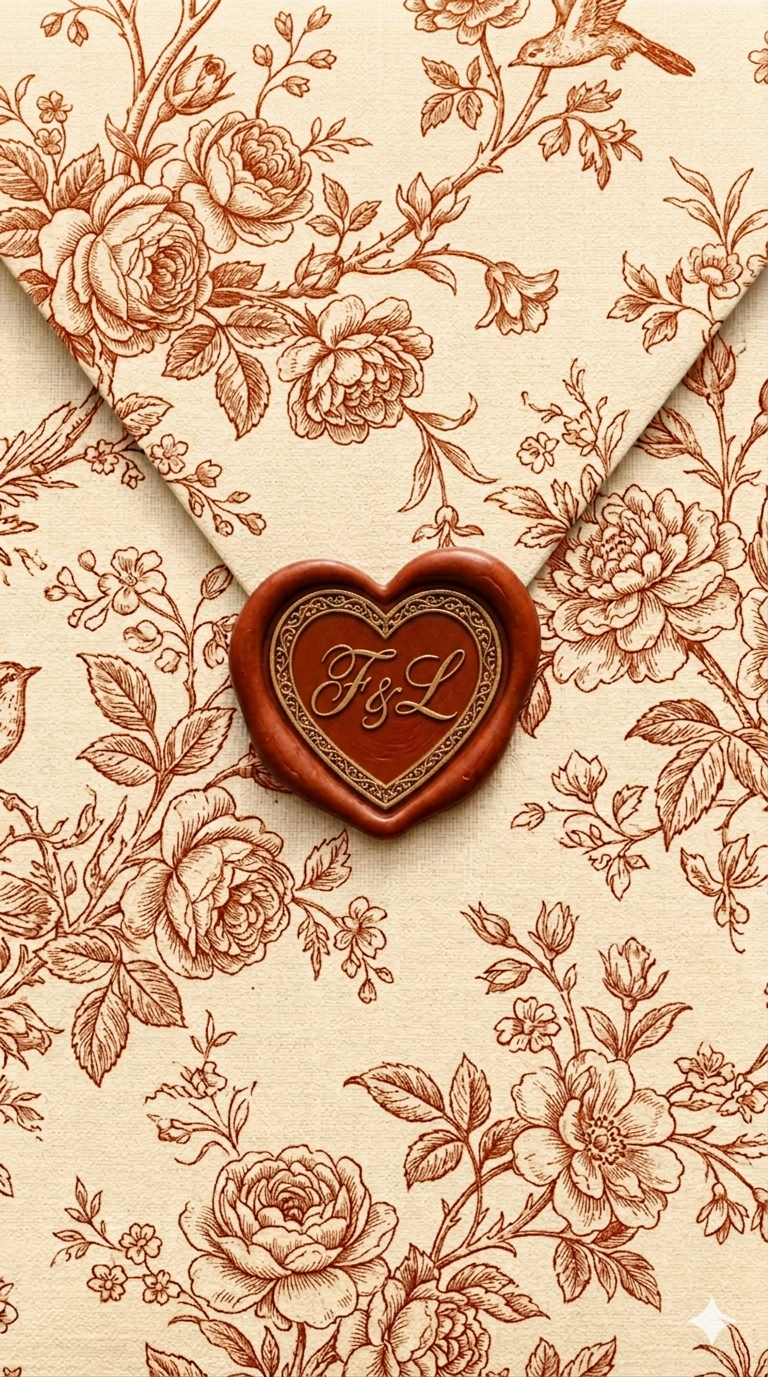
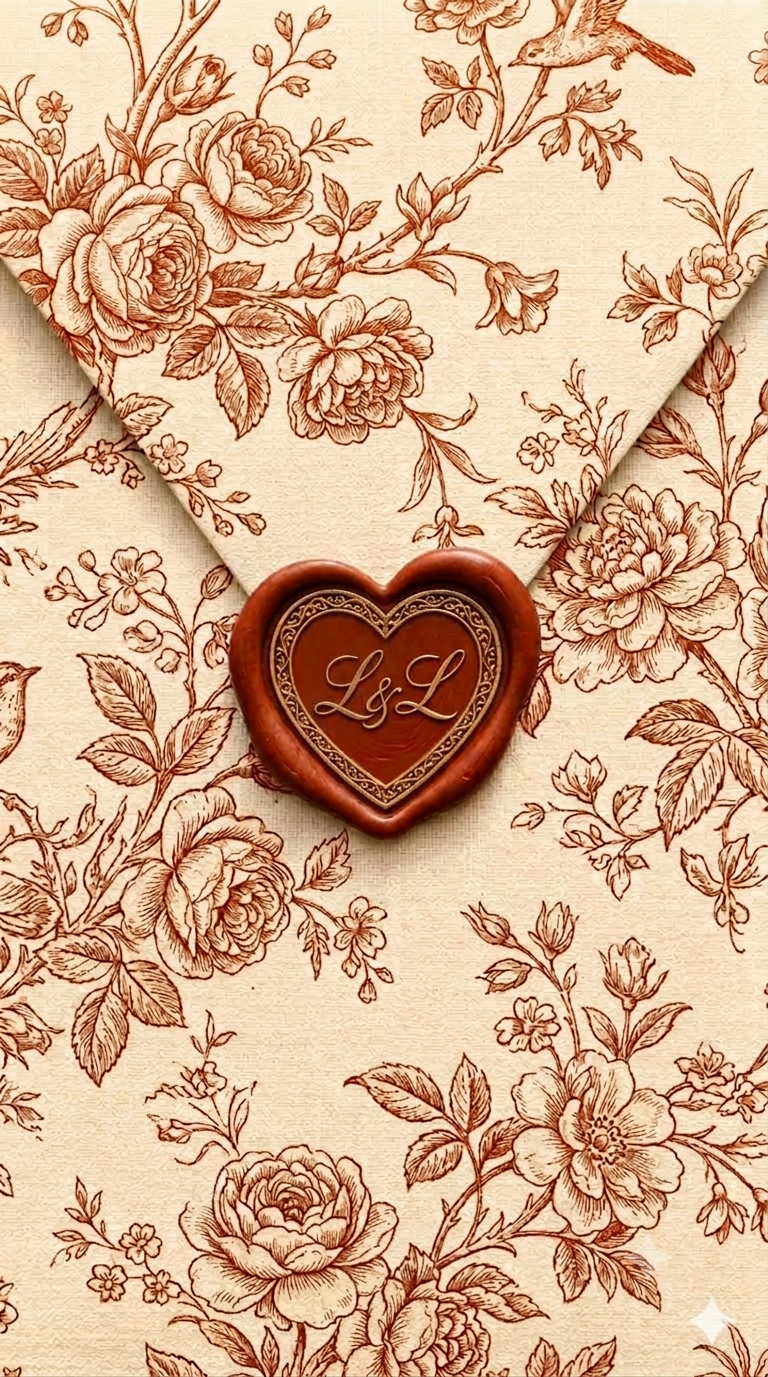
feat: nuevo sobre L&L + video fade a los 3s
- Reemplazar imagen sobre.png con nuevo diseño L&L
- Reemplazar video sobre.mp4 con nueva animación
- Video se difumina a los 3s y transiciona a la invitación

diff --git a/index.html b/index.html
@@ -1703,14 +1703,21 @@ function openEnvelope() {
   // play() debe llamarse sincronamente dentro del handler de tap (iOS)
   const playPromise = vid.play();
   layer.classList.add('active');
+  function fadeAtThree() {
+    layer.style.transition = 'opacity .8s ease';
+    layer.style.opacity = '0';
+    setTimeout(dismissLoader, 800);
+  }
   if (playPromise !== undefined) {
     playPromise.then(function() {
-      vid.addEventListener('ended', function() { setTimeout(dismissLoader, 400); }, { once: true });
+      setTimeout(fadeAtThree, 3000);
+      vid.addEventListener('ended', function() { if (document.getElementById('loader')) dismissLoader(); }, { once: true });
     }).catch(function() {
       setTimeout(dismissLoader, 600);
     });
   } else {
-    vid.addEventListener('ended', function() { setTimeout(dismissLoader, 400); }, { once: true });
+    setTimeout(fadeAtThree, 3000);
+    vid.addEventListener('ended', function() { if (document.getElementById('loader')) dismissLoader(); }, { once: true });
   }
   // Safety: dismissa si el video no termina en 15s
   setTimeout(function() { if (document.getElementById('loader')) dismissLoader(); }, 15000);